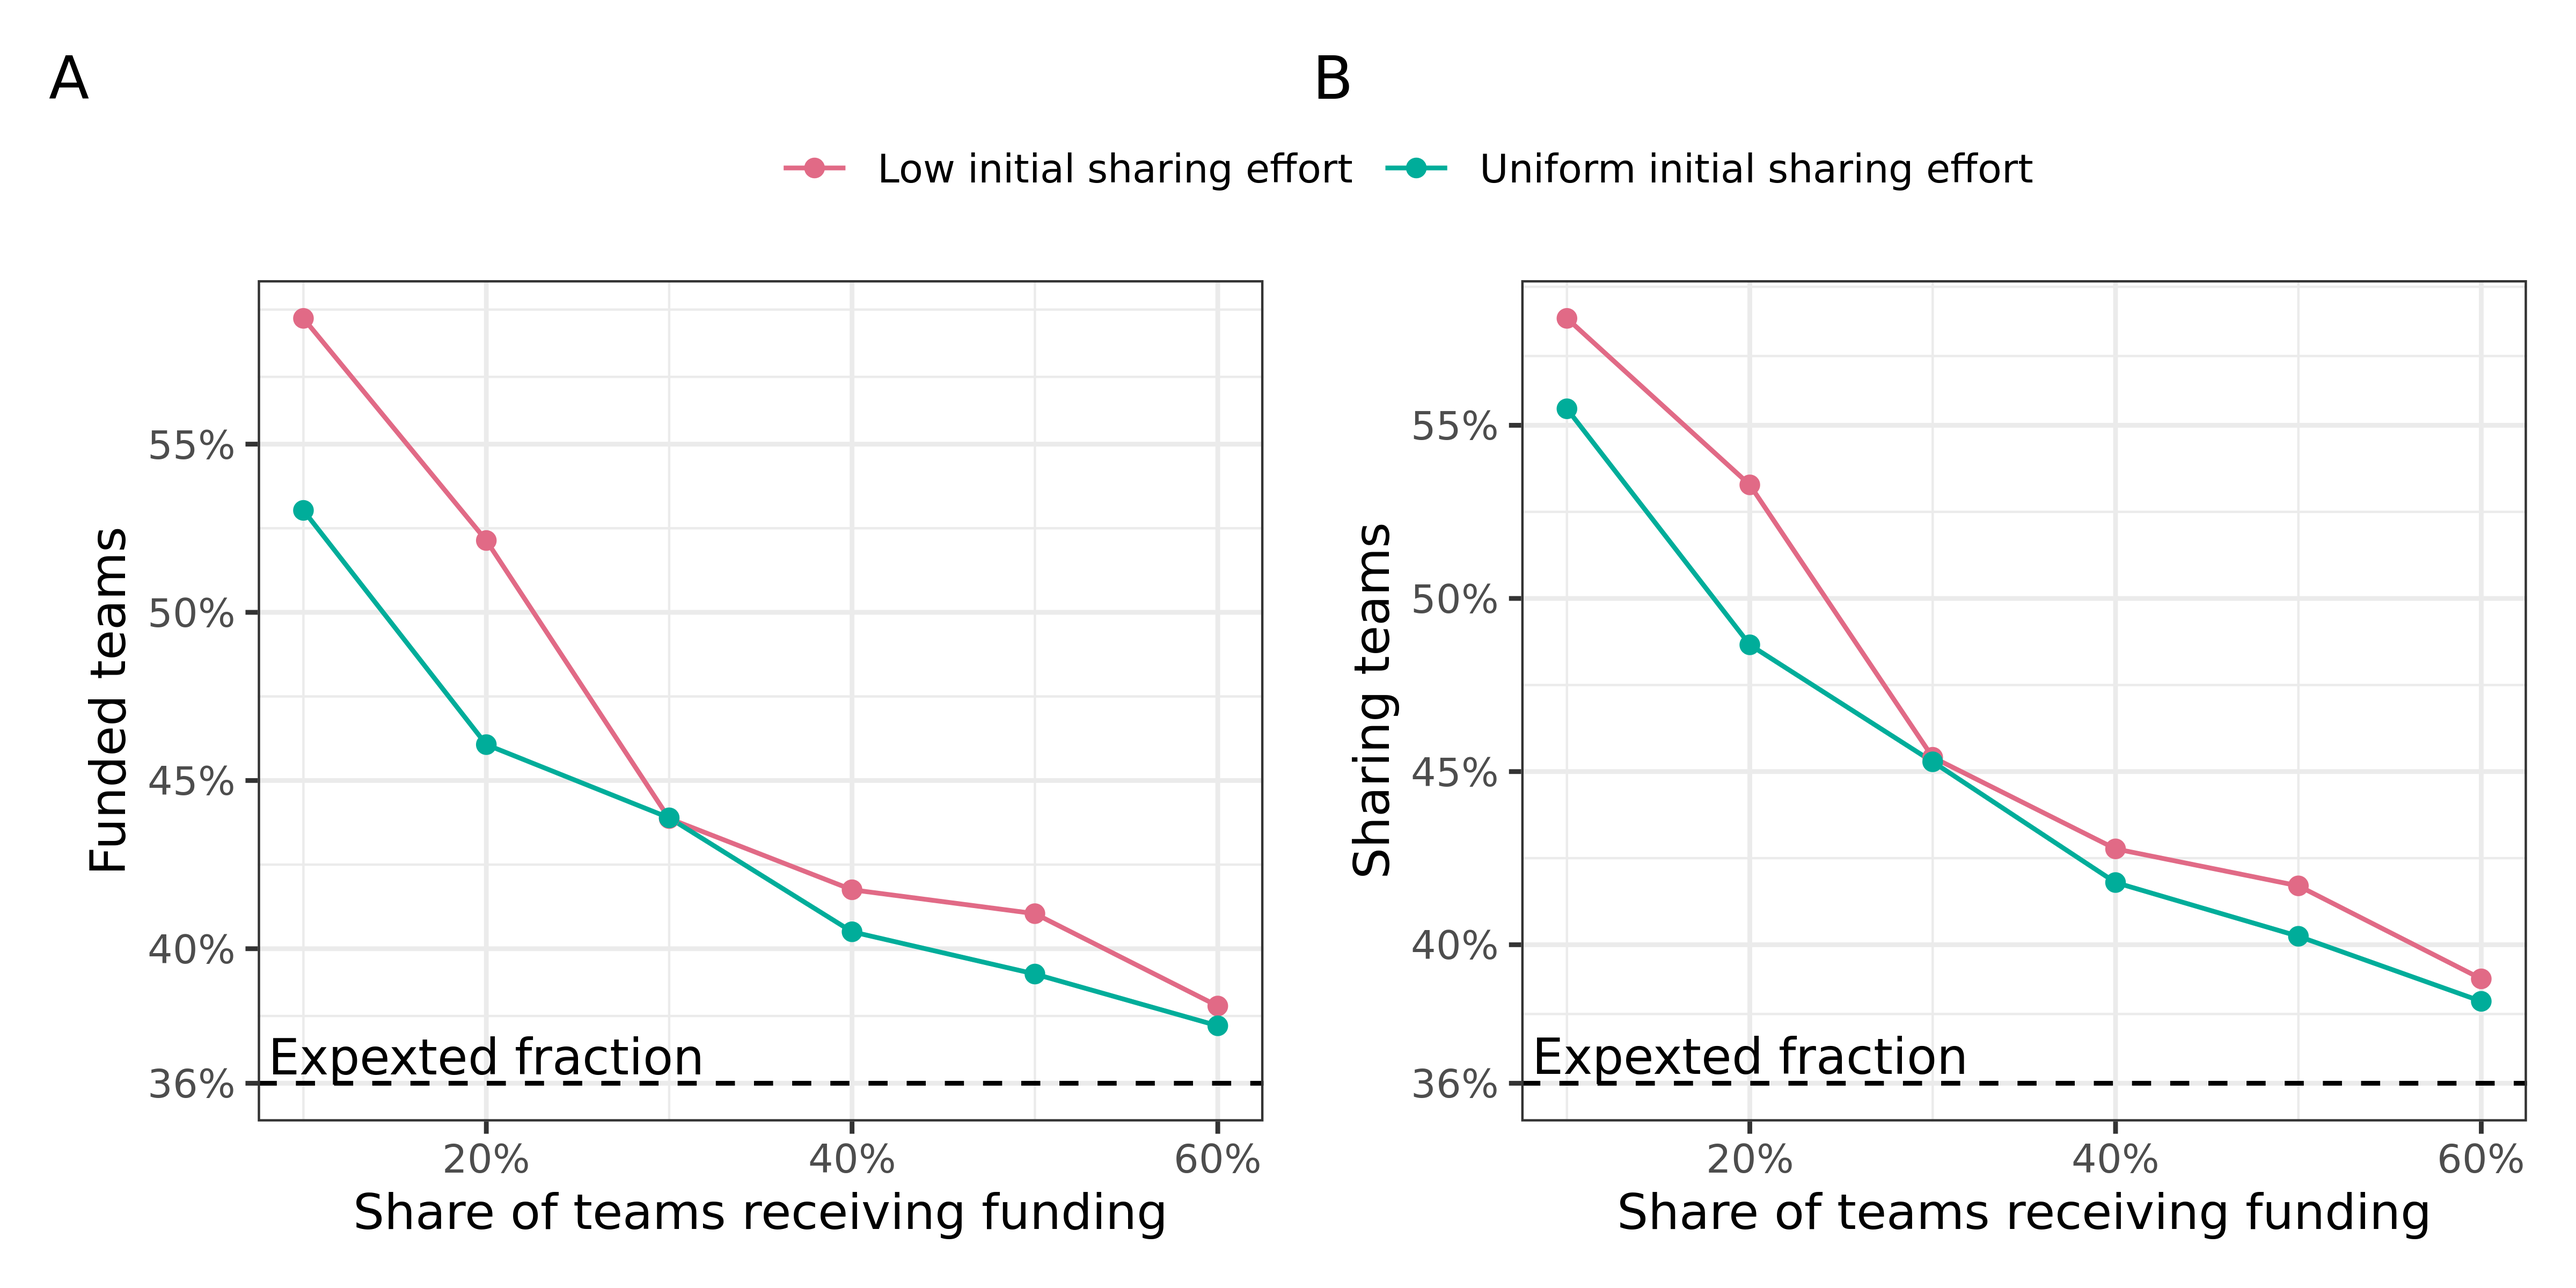
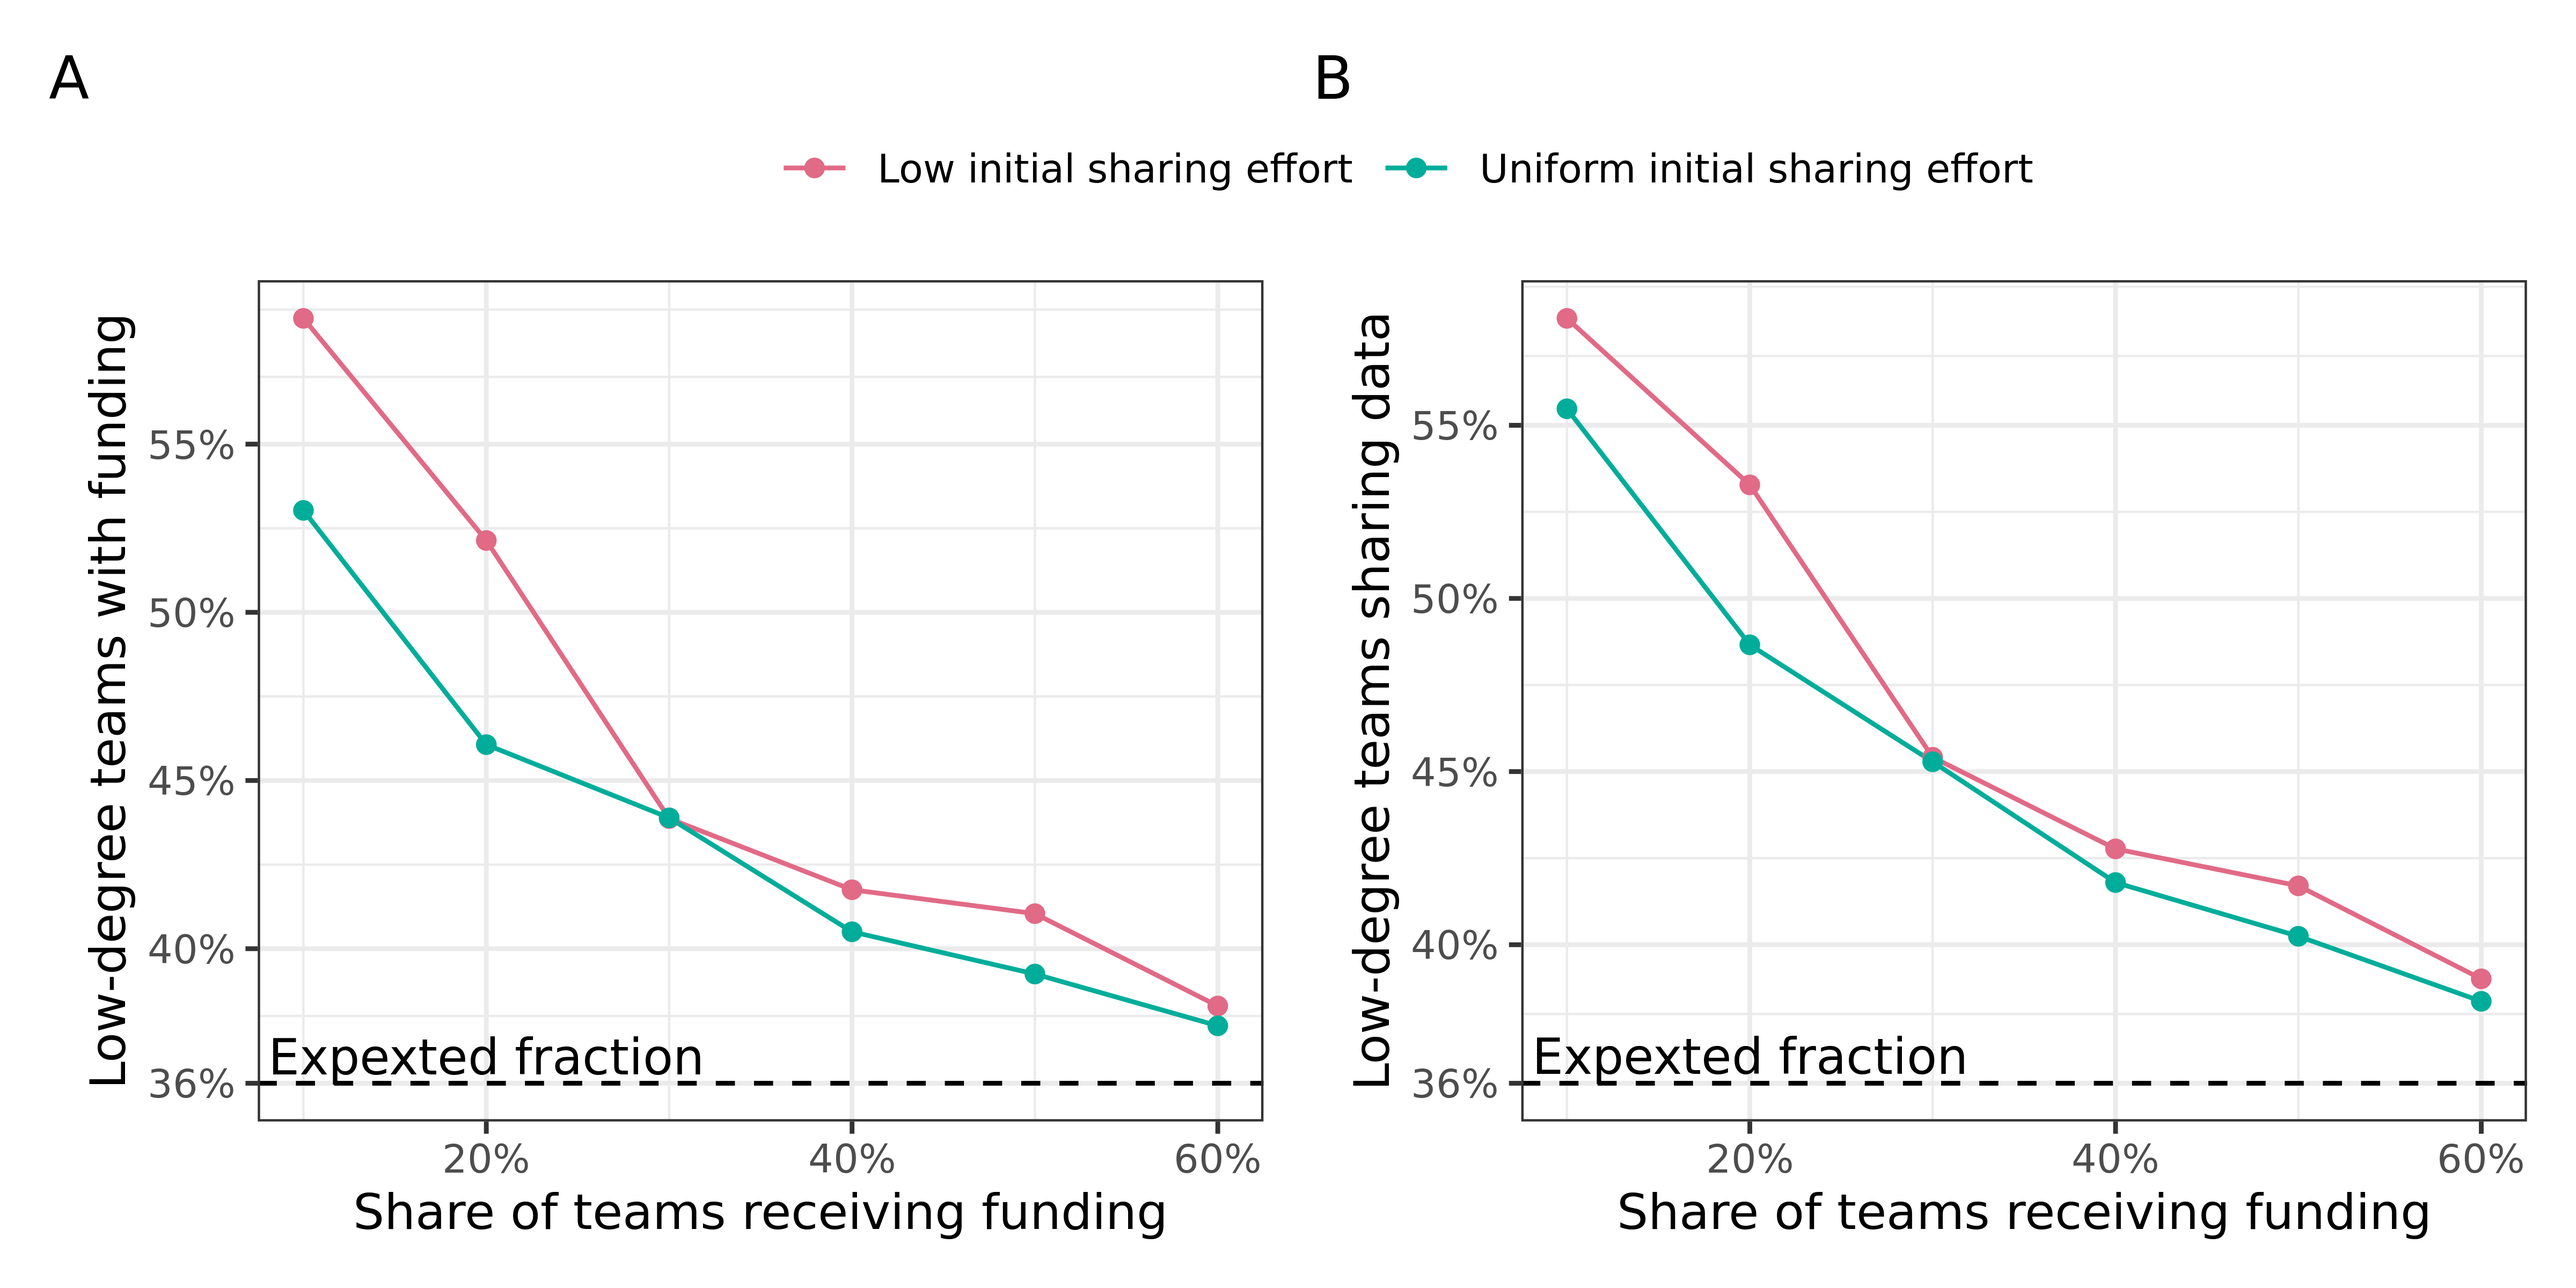
knit

diff --git a/analysis/04-funder-selectivity-individual-data.html b/analysis/04-funder-selectivity-individual-data.html
@@ -804,8 +804,8 @@ the `.groups` argument.</code></pre>
 <div class="cell">
 <details>
 <summary>Code</summary>
-<div class="sourceCode cell-code" id="cb42"><pre class="sourceCode r code-with-copy"><code class="sourceCode r"><span id="cb42-1"><a href="#cb42-1" aria-hidden="true" tabindex="-1"></a>p1 <span class="sc">+</span> <span class="fu">labs</span>(<span class="at">y =</span> <span class="st">"Funded teams"</span>) <span class="sc">+</span> </span>
-<span id="cb42-2"><a href="#cb42-2" aria-hidden="true" tabindex="-1"></a>  p2 <span class="sc">+</span> <span class="fu">labs</span>(<span class="at">y =</span> <span class="st">"Sharing teams"</span>) <span class="sc">+</span></span>
+<div class="sourceCode cell-code" id="cb42"><pre class="sourceCode r code-with-copy"><code class="sourceCode r"><span id="cb42-1"><a href="#cb42-1" aria-hidden="true" tabindex="-1"></a>p1 <span class="sc">+</span> <span class="fu">labs</span>(<span class="at">y =</span> <span class="st">"Low-degree teams with funding"</span>) <span class="sc">+</span> </span>
+<span id="cb42-2"><a href="#cb42-2" aria-hidden="true" tabindex="-1"></a>  p2 <span class="sc">+</span> <span class="fu">labs</span>(<span class="at">y =</span> <span class="st">"Low-degree teams sharing data"</span>) <span class="sc">+</span></span>
 <span id="cb42-3"><a href="#cb42-3" aria-hidden="true" tabindex="-1"></a>  <span class="fu">plot_layout</span>(<span class="at">guides =</span> <span class="st">"collect"</span>) <span class="sc">+</span> </span>
 <span id="cb42-4"><a href="#cb42-4" aria-hidden="true" tabindex="-1"></a>  <span class="fu">plot_annotation</span>(<span class="at">tag_levels =</span> <span class="st">"A"</span>) <span class="sc">&amp;</span> <span class="fu">theme</span>(<span class="at">legend.position =</span> <span class="st">"top"</span>)</span></code><button title="Copy to Clipboard" class="code-copy-button"><i class="bi"></i></button></pre></div>
 </details>

diff --git a/analysis/04-funder-selectivity-individual-data.md b/analysis/04-funder-selectivity-individual-data.md
@@ -685,8 +685,8 @@ p2
 ::: {.cell}
 
 ```{.r .cell-code}
-p1 + labs(y = "Funded teams") + 
-  p2 + labs(y = "Sharing teams") +
+p1 + labs(y = "Low-degree teams with funding") + 
+  p2 + labs(y = "Low-degree teams sharing data") +
   plot_layout(guides = "collect") + 
   plot_annotation(tag_levels = "A") & theme(legend.position = "top")
 ```
